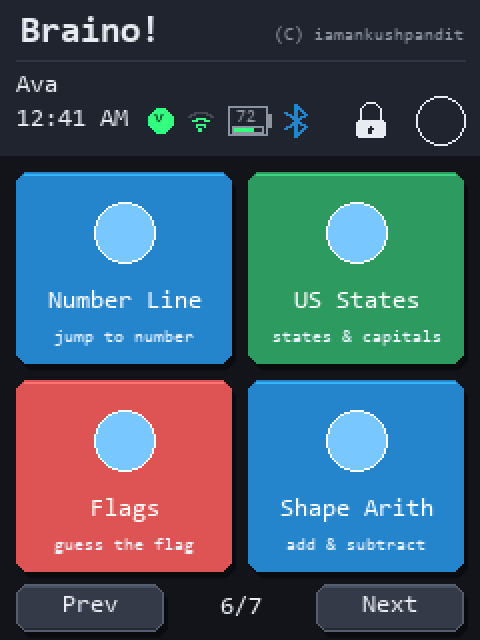
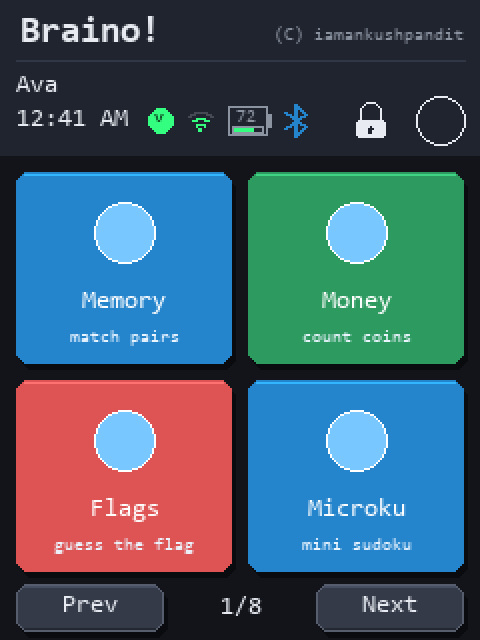
Lead the launcher with the games that answer a parent's question
Page 1 opened with Tic-Tac-Toe and closed with Whack-a-Mole. Both are
fine games and neither says anything about what a child learns, which is
the only question a parent is asking while looking at that screen. Trace
-- letters and handwriting, the thing parents of four-year-olds care
most about -- was on page 4, where nobody browsing would ever reach it.

Page 1 is now Memory, Money, Flags, Microku, Trace, Counting. The
launcher shows six tiles in landscape but only four in portrait, so the
first four are the real front page and they are the four chosen for it;
Trace and Counting take the two landscape-only slots and cover the
youngest end. Everything else keeps its relative order behind them.

This reorders the shop window too: the README gallery, the About game
list and the installer page all derive their order from AppRegistry, and
a parent sees the web page before the device.

Done now rather than later because per-profile game visibility is stored
by launcher index rather than by game id (Board::gameVisibleFor), so
reordering silently reassigns anyone's hidden-game choices. Every game
ships visible, so today that affects nobody. After people own devices it
would need a migration.

The two launcher mock-ups now derive their tiles and their page count
from the registry. They had drifted to drawing a middle page with an
invented pager -- Number Line, US States, Shape Arith -- so the picture
in the README and on the installer page was of a page the launcher never
[…]

diff --git a/tools/gen_screens.py b/tools/gen_screens.py
@@ -494,6 +494,33 @@ def cinnamon():
     return im
 
 
+def page_label(per_page):
+    """"1/N" for a launcher mock-up showing the first page.
+
+    N is derived from the game count, so it cannot say 5 pages while the
+    console has 6. Both launcher mock-ups drew a middle page with a made-up
+    pager; now that they show page 1, the label has to agree.
+    """
+    from app_registry_parser import playable_apps
+    total = len(playable_apps())
+    return "1/%d" % ((total + per_page - 1) // per_page)
+
+
+def front_page_tiles(count):
+    """The first `count` launcher tiles, read from the registry.
+
+    Derived rather than typed, for the reason the About game list is derived:
+    these two mock-ups are the picture of the product in the README and on the
+    installer page, and they had drifted to showing page 6 (Number Line, US
+    States, Shape Arith...) while page 1 was something else entirely. A picture
+    of a page the launcher does not open with is worse than no picture, because
+    it is the one a parent forms an impression from.
+    """
+    from app_registry_parser import playable_apps
+    apps = sorted(playable_apps(), key=lambda a: a.index)
+    return [(a.label, a.subtitle) for a in apps[:count]]
+
+
 def launcher_wide():
     im, d = blank(); d.rectangle([0, 0, W - 1, 47], fill=SURFACE)
     d.line([(0, 0), (W, 0)], fill=shade(SURFACE, 145))
@@ -517,9 +544,7 @@ def launcher_wide():
     # Lock at the left-hand end of the badge row, inside the hairline, at badge
     # size. See LauncherLayout::lockRect().
     lock_icon(d, (W - 136, 25, 18, 18))
-    tiles = [("Number Line", "jump to number"), ("US States", "states & capitals"),
-             ("Flags", "guess the flag"), ("Shape Arith", "add & subtract"),
-             ("Trace", "A-Z & 0-9"), ("Calendar", "days & months")]
+    tiles = front_page_tiles(6)
     cols = [BLUE, GREEN, RED]
     for slot, (title, sub) in enumerate(tiles):
         x, y = 10 + (slot % 2) * 155, 52 + (slot // 2) * 53
@@ -531,7 +556,7 @@ def launcher_wide():
         d.text((x + 46, y + 9), title, font=F2, fill=WHITE)
         d.text((x + 46, y + 28), sub, font=F1, fill=(235, 245, 255))
     button(d, (8, 212, 74, 24), "Prev"); button(d, (W - 82, 212, 74, 24), "Next")
-    d.text((W / 2 - 12, 217), "3/5", font=F2, fill=TEXT)
+    d.text((W / 2 - 12, 217), page_label(6), font=F2, fill=TEXT)
     return im
 
 
@@ -553,8 +578,9 @@ def launcher_tall():
     ble_badge(d, batt_left + batt_w + 11, 60)
     d.ellipse([208, 48, 232, 72], outline=TEXT)
     lock_icon(d, (176, 51, 18, 18))
-    tiles = [("Number Line", "jump to number", BLUE), ("US States", "states & capitals", GREEN),
-             ("Flags", "guess the flag", RED), ("Shape Arith", "add & subtract", BLUE)]
+    _fills = (BLUE, GREEN, RED, BLUE)
+    tiles = [(t, sub, _fills[i % 4])
+             for i, (t, sub) in enumerate(front_page_tiles(4))]
     for slot, (title, sub, fill) in enumerate(tiles):
         x, y = 8 + (slot % 2) * 116, 86 + (slot // 2) * 104
         d.rounded_rectangle([x + 2, y + 3, x + 109, y + 98], 6, fill=SHADOW)
@@ -568,7 +594,7 @@ def launcher_tall():
             d.text((x + 54 - d.textlength(s2, font=f) / 2, y + yy), s2, font=f,
                    fill=WHITE if f is F2 else (235, 245, 255))
     button(d, (8, 292, 74, 24), "Prev"); button(d, (158, 292, 74, 24), "Next")
-    d.text((110, 297), "6/7", font=F2, fill=TEXT)
+    d.text((110, 297), page_label(4), font=F2, fill=TEXT)
     return im
 
 

diff --git a/src/games/MultiplicationGame.cpp b/src/games/MultiplicationGame.cpp
@@ -26,7 +26,7 @@ constexpr AppMetadata MULTIPLICATION_METADATA = {
     "Practice multiplication facts.",
     &MULTIPLICATION_SCORE,
     LauncherIcon::Multiplication,
-    3,
+    8,
     true,
 };
 }

diff --git a/src/games/WhackAMoleGame.cpp b/src/games/WhackAMoleGame.cpp
@@ -25,7 +25,7 @@ constexpr AppMetadata WHACK_A_MOLE_METADATA = {
     "Tap the mole before it escapes.",
     &WHACK_A_MOLE_SCORE,
     LauncherIcon::WhackAMole,
-    5,
+    10,
     true,
 };
 }

diff --git a/src/games/ShapeColorGame.cpp b/src/games/ShapeColorGame.cpp
@@ -18,7 +18,7 @@ constexpr AppMetadata SHAPE_COLOR_METADATA = {
     "Match each shape to its outline.",
     &SHAPE_COLOR_SCORE,
     LauncherIcon::ShapeColor,
-    8,
+    12,
     true,
 };
 

diff --git a/src/games/OddOneOutGame.cpp b/src/games/OddOneOutGame.cpp
@@ -20,7 +20,7 @@ constexpr AppMetadata ODD_ONE_OUT_METADATA = {
     "Find the one that differs.",
     &ODD_ONE_OUT_SCORE,
     LauncherIcon::OddOneOut,
-    16,
+    18,
     true,
 };
 }

diff --git a/src/games/CinnamonGame.cpp b/src/games/CinnamonGame.cpp
@@ -24,7 +24,7 @@ constexpr AppMetadata CINNAMON_METADATA = {
     "Watch the pattern, then repeat it.",
     &CINNAMON_SCORE,
     LauncherIcon::Cinnamon,
-    6,
+    11,
     true,
 };
 

diff --git a/src/games/TimeGame.cpp b/src/games/TimeGame.cpp
@@ -61,7 +61,7 @@ constexpr AppMetadata TIME_GAME_METADATA = {
     "Read the clock and pick the time.",
     &TIME_GAME_SCORE,
     LauncherIcon::Time,
-    4,
+    9,
     true,
 };
 }

diff --git a/src/games/CountingGame.cpp b/src/games/CountingGame.cpp
@@ -21,7 +21,7 @@ constexpr AppMetadata COUNTING_METADATA = {
     "Count objects, tap the number.",
     &COUNTING_SCORE,
     LauncherIcon::Counting,
-    9,
+    5,
     true,
 };
 }

diff --git a/src/games/MemoryGame.cpp b/src/games/MemoryGame.cpp
@@ -23,7 +23,7 @@ constexpr AppMetadata MEMORY_METADATA = {
     "Flip cards to find matching pairs.",
     &MEMORY_SCORE,
     LauncherIcon::Memory,
-    1,
+    0,
     true,
 };
 }

diff --git a/src/games/MicrokuGame.cpp b/src/games/MicrokuGame.cpp
@@ -77,7 +77,7 @@ constexpr AppMetadata MICROKU_METADATA = {
     "Solve tiny Sudoku-style boards.",
     &MICROKU_SCORE,
     LauncherIcon::Microku,
-    7,
+    3,
     true,
 };
 }

diff --git a/src/games/SlidingPuzzleGame.cpp b/src/games/SlidingPuzzleGame.cpp
@@ -15,7 +15,7 @@ constexpr AppMetadata SLIDING_PUZZLE_METADATA = {
     "Slide tiles into order.",
     nullptr,
     LauncherIcon::SlidingPuzzle,
-    15,
+    17,
     true,
 };
 }

diff --git a/src/games/MathGame.cpp b/src/games/MathGame.cpp
@@ -20,7 +20,7 @@ constexpr AppMetadata MATH_METADATA = {
     "Practice arithmetic with timed rounds.",
     &MATH_SCORE,
     LauncherIcon::Math,
-    2,
+    7,
     true,
 };
 }
